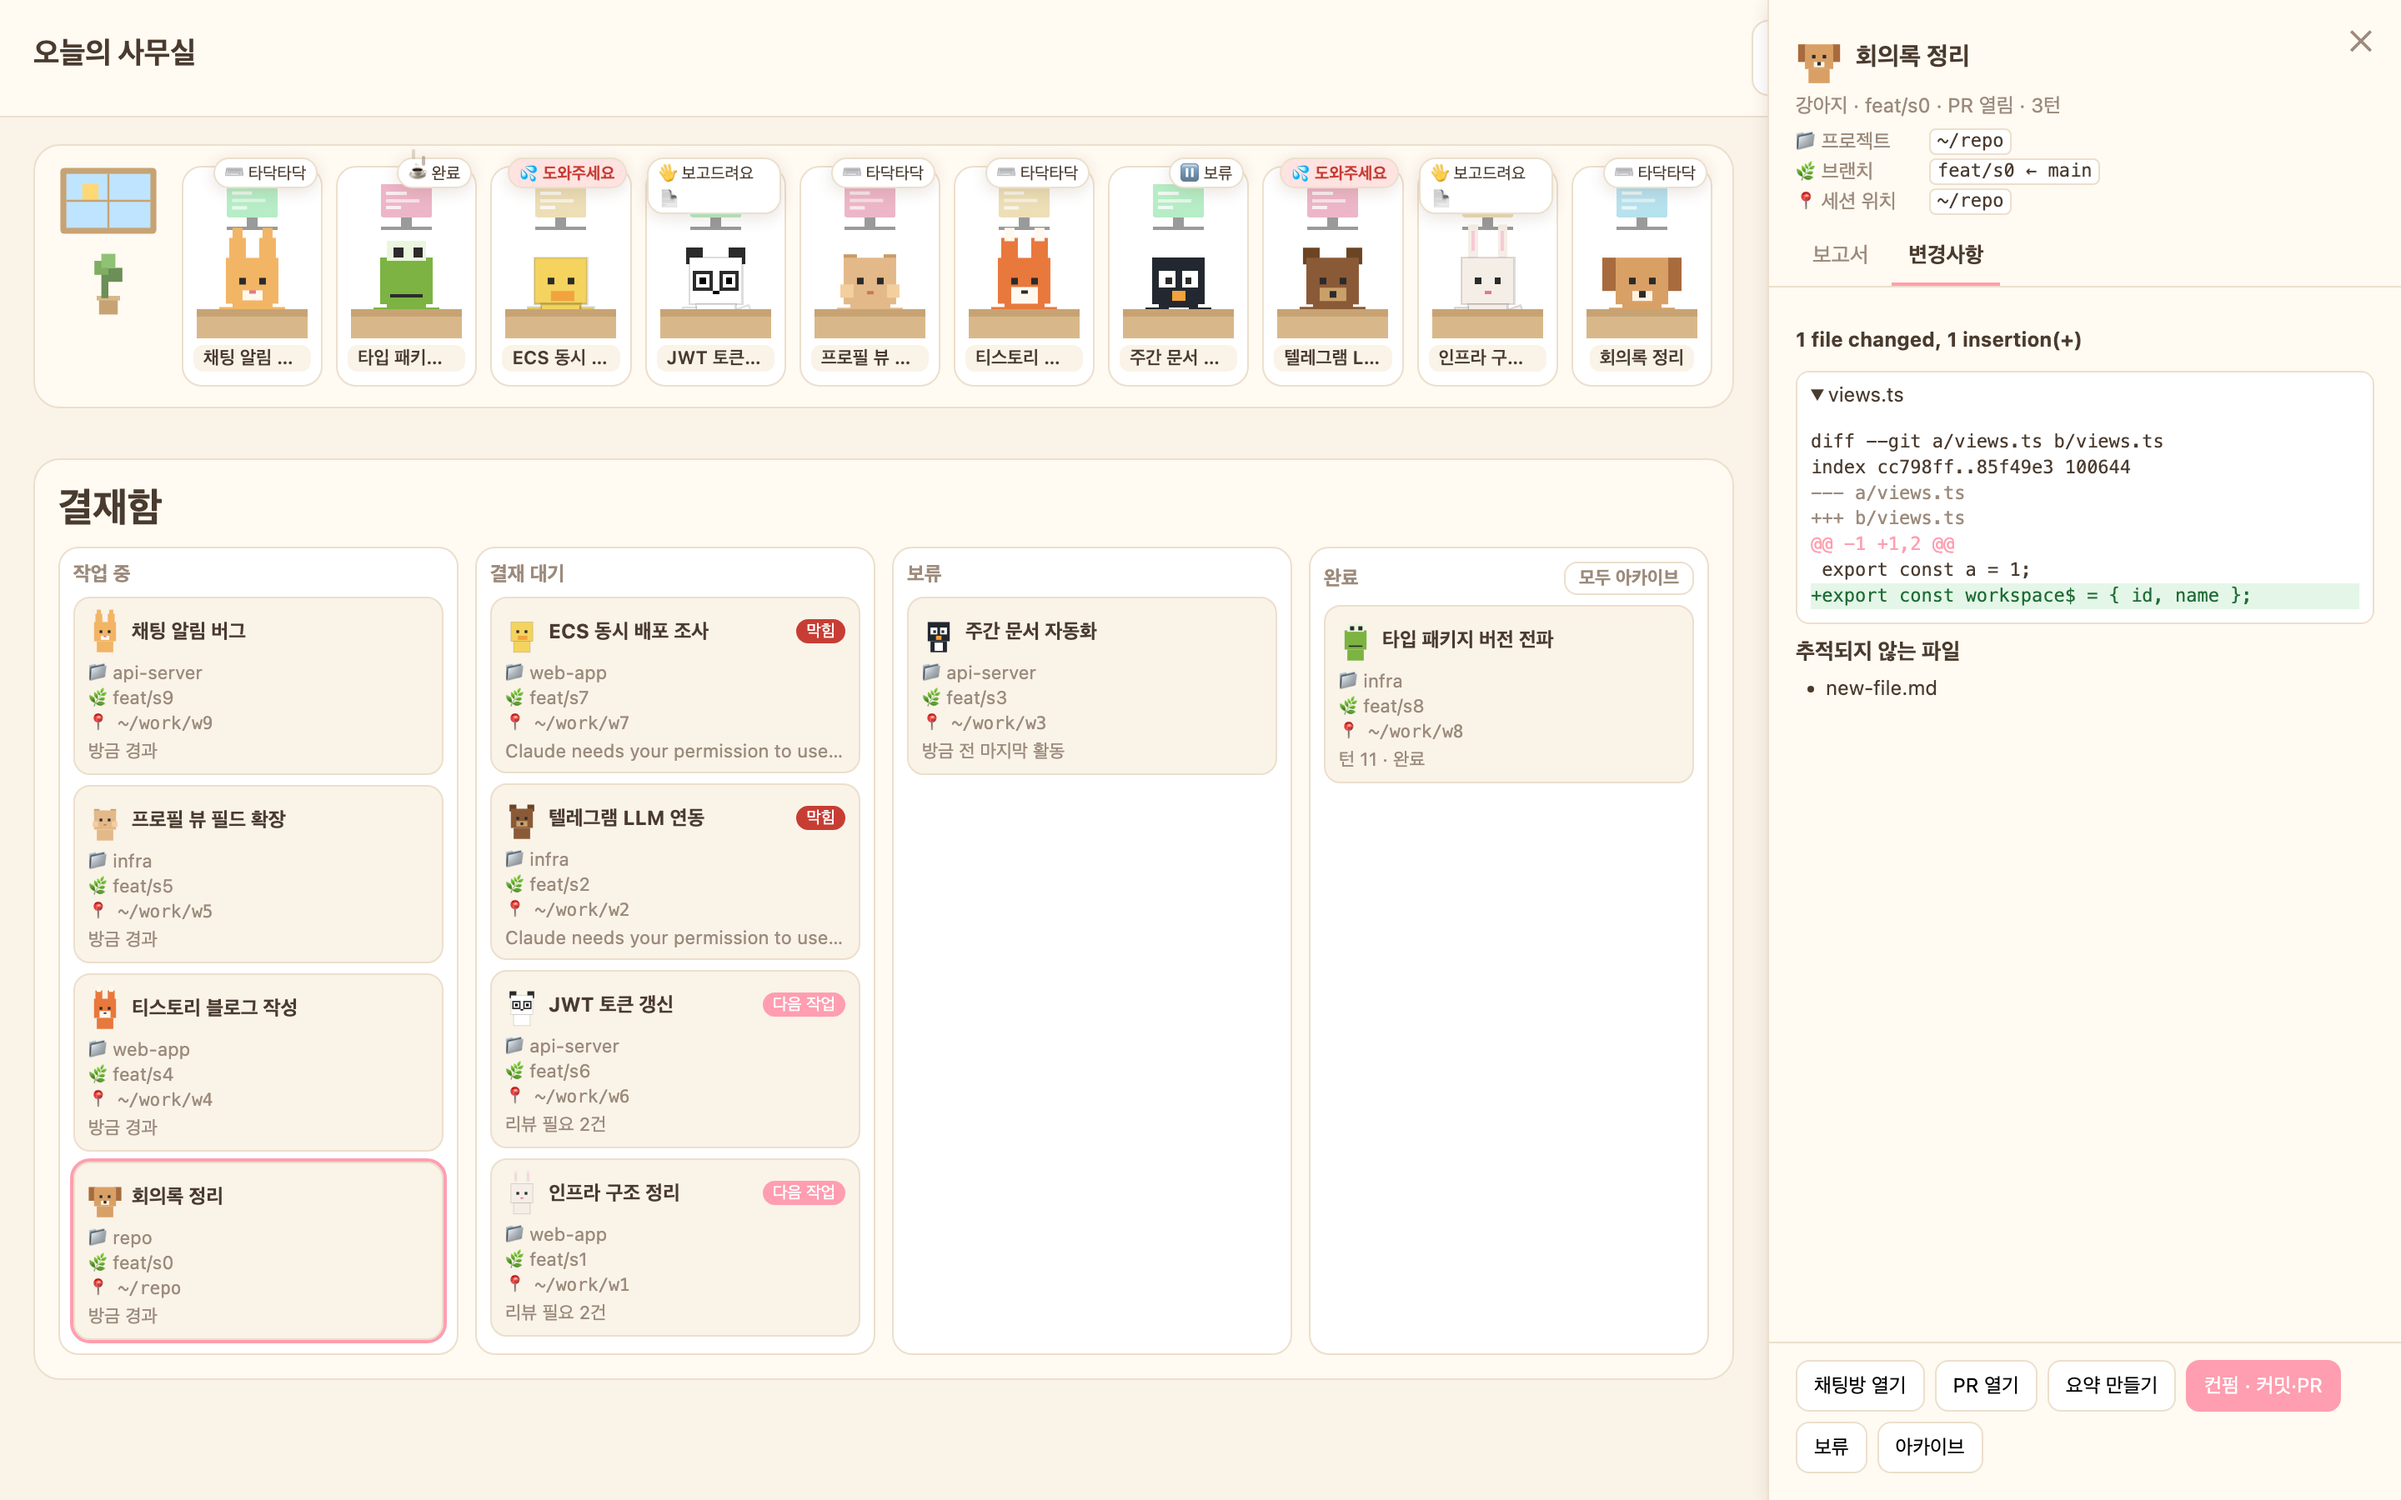
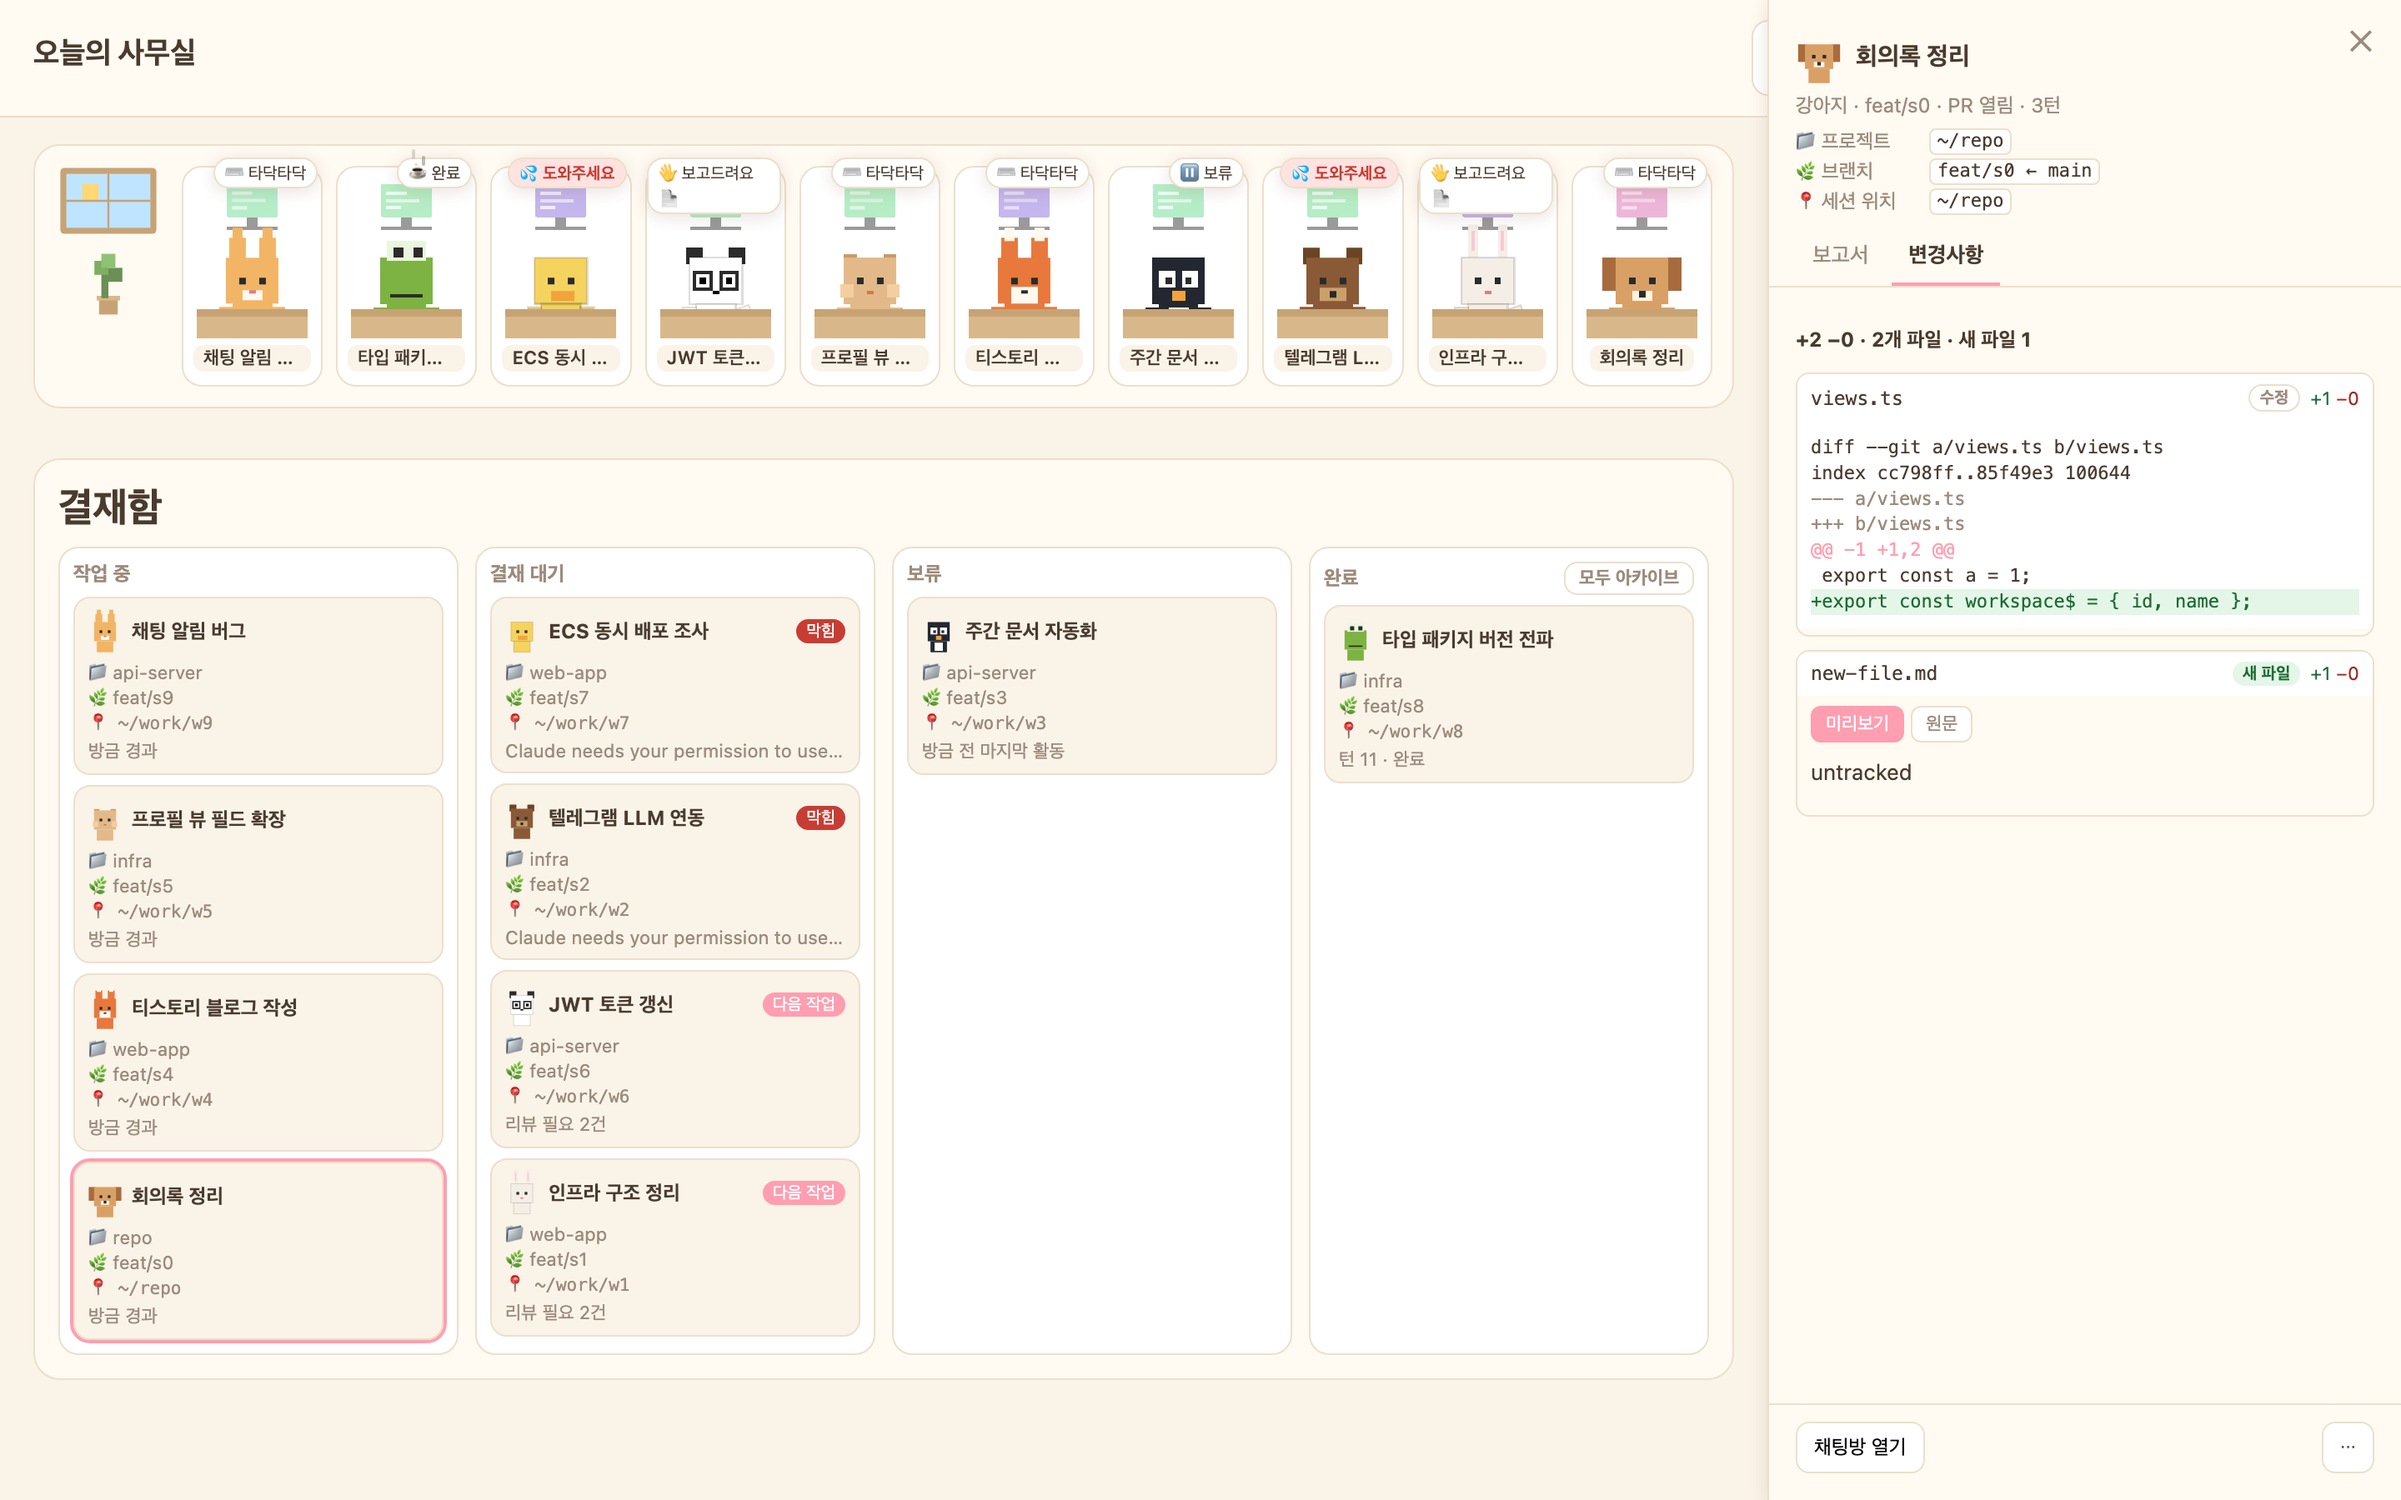
docs: code layout, detail panel guide, new screenshots, design status

diff --git a/README.md b/README.md
@@ -33,7 +33,7 @@ flowchart TB
         GIT["워크트리 git<br/>diff · 브랜치 · 프로젝트"]
     end
 
-    SRV["server.mjs + lib.mjs<br/>127.0.0.1:7777"]
+    SRV["server.mjs → src/<br/>127.0.0.1:7777"]
     DEC[("~/.claude/office/decisions.json<br/>컨펌 · 보류 · 아카이브")]
     UI["브라우저<br/>픽셀 오피스 · 결재함<br/>상세 패널 · 보관함"]
 
@@ -52,6 +52,31 @@ flowchart TB
 - 세션 상태는 hooks가 남긴 이벤트로, 제목·브랜치·딥링크는 앱 파일에서, 변경사항은 각 워크트리의 git에서 읽는다.
 - 서버가 쓰는 곳은 `~/.claude/office/` 하나다. 앱 데이터와 세션 파일은 읽기만 한다.
 - 세션에 무언가를 보낼 때(컨펌, OK)는 마지막 Enter를 항상 사용자가 누른다.
+
+### 코드 구조
+
+```
+server.mjs              진입점 (src/http/server.mjs 실행)
+install.mjs             hooks 설치·제거
+hooks/report.mjs        hook (실행 속도 때문에 의존성 없이 단독)
+src/
+  config.mjs            환경변수·경로·한도 (환경변수는 여기서만 읽음)
+  http/                 controller: 입력 정리 → use-case 호출 → 응답, Host/Origin 검사
+  usecases/             흐름: 세션 목록, 변경사항, 컨펌·보류·아카이브, 다음 작업, 요약
+  domain/               순수 함수: 상태 판정, 보고서 파싱, 프롬프트, diff 파싱
+  sources/              데이터 읽기·쓰기: 앱 세션 파일, hook 상태, 대화 기록, 결정, git
+  platform/             OS 부수효과: open, pbcopy, claude -p
+public/
+  index.html            마크업 뼈대
+  css/                  base · office · board · panel · changes · markdown
+  js/                   main → api · store → views/ · panel/ (lib/은 순수 함수)
+test/unit/              순수 함수 테스트
+test/integration/       서버·fixture·임시 git 레포 테스트
+```
+
+- 의존 방향: `http → usecases → domain · sources · platform`. `domain/`과 `public/js/lib/`, `panel/actions.js`는 아무것도 import하지 않는 순수 모듈이다.
+- 파일 쓰기와 OS 명령은 `sources/`와 `platform/`에만 있다.
+- 설계 문서: [`docs/specs/2026-09-28-layering-and-panel-design.md`](docs/specs/2026-09-28-layering-and-panel-design.md)
 
 ## 먼저 데모로 보기 (실제 설정 안 건드림)
 
@@ -77,6 +102,13 @@ node scripts/demo.mjs public 7770
 특정 세션 패널을 바로 여는 주소: `http://127.0.0.1:7777/?open=<세션 id>` (변경사항 탭은 `&tab=diff`).
 
 hooks는 설치 **이후** 시작된 턴부터 잡힌다. 설치 전 세션은 24시간 이내 활동분만 회색(상태 미상)으로 보인다.
+
+## 상세 패널
+
+- **보고서 탭**: 결재 보고를 마크다운으로 보여준다. "다음 작업"은 항목마다 **▶ 진행** 버튼이 있다.
+- **변경사항 탭**: 무엇과 비교했는지(기준 브랜치)와 `+추가 −삭제 · 파일 수 · 새 파일 수`를 먼저 보여준다. 새 파일은 커밋 여부와 상관없이 **내용 전체**가 보이고, 새 `.md` 파일은 **미리보기 / 원문**으로 전환된다. 워크트리 없이 연 세션도 그 폴더의 git 레포로 비교한다. 변경이 없으면 이유를 적는다. 세션이 새로 움직이면 자동으로 다시 불러온다.
+- **하단 버튼**: 상태마다 주 버튼 하나만 강조한다. 결재 대기는 "컨펌 · 커밋·PR", 다음 작업이 있으면 "OK · 1번 진행 ▾"(▾로 2·3번 선택)이다. 보조 버튼은 "채팅방 열기"이고 나머지는 **⋯ 메뉴**(요약 만들기, 보류, 아카이브)에 있다.
+- **크기 조절**: 패널 왼쪽 가장자리를 드래그한다. 손잡이에 포커스한 뒤 ←/→로 조절하고, 더블클릭하면 기본 폭으로 돌아온다. 폭은 브라우저에 저장된다.
 
 ## 컨펌과 다음 작업
 

diff --git a/README.en.md b/README.en.md
@@ -34,7 +34,7 @@ flowchart TB
         GIT["git per worktree<br/>diff · branch · project"]
     end
 
-    SRV["server.mjs + lib.mjs<br/>127.0.0.1:7777"]
+    SRV["server.mjs → src/<br/>127.0.0.1:7777"]
     DEC[("~/.claude/office/decisions.json<br/>confirm · hold · archive")]
     UI["Browser<br/>pixel office · approval board<br/>detail panel · archive list"]
 
@@ -53,6 +53,31 @@ flowchart TB
 - Session state comes from hook events; titles, branches, and deep links from the app's files; changes from each worktree's git.
 - The server writes only to `~/.claude/office/`. It only reads app data and session files.
 - Whenever something goes to a session (confirm, OK), you press the final Enter yourself.
+
+### Code layout
+
+```
+server.mjs              entry (runs src/http/server.mjs)
+install.mjs             install / uninstall hooks
+hooks/report.mjs        the hook (standalone, no imports, for startup speed)
+src/
+  config.mjs            env vars, paths, limits (the only place env vars are read)
+  http/                 controller: normalize input → call a use case → respond; Host/Origin checks
+  usecases/             flows: session list, changes, confirm/hold/archive, next task, summary
+  domain/               pure functions: status, report parsing, prompts, diff parsing
+  sources/              data in/out: app session files, hook state, transcripts, decisions, git
+  platform/             OS side effects: open, pbcopy, claude -p
+public/
+  index.html            markup skeleton
+  css/                  base · office · board · panel · changes · markdown
+  js/                   main → api · store → views/ · panel/ (lib/ is pure)
+test/unit/              pure-function tests
+test/integration/       server, fixtures, temp git repos
+```
+
+- Dependencies point one way: `http → usecases → domain · sources · platform`. `domain/`, `public/js/lib/` and `panel/actions.js` import nothing.
+- File writes and OS commands live only in `sources/` and `platform/`.
+- Design (Korean): [`docs/specs/2026-09-28-layering-and-panel-design.md`](docs/specs/2026-09-28-layering-and-panel-design.md)
 
 ## Try the demo first (touches no real settings)
 
@@ -78,6 +103,13 @@ Ten fake sessions change state every 8 seconds. Open `http://127.0.0.1:7770`.
 To open a session's panel directly: `http://127.0.0.1:7777/?open=<session id>` (add `&tab=diff` for the changes tab).
 
 Hooks only see turns that start **after** installation. Older sessions active in the last 24 hours show up grey (state unknown).
+
+## Detail panel
+
+- **Report tab**: the approval report rendered as markdown. Each "다음 작업" (next task) item has its own **▶ 진행** (run) button.
+- **Changes tab**: first shows what it compared against (base branch) and `+added −deleted · files · new files`. New files show their **full content** whether committed or not, and new `.md` files switch between **미리보기 / 원문** (preview / raw). Sessions opened without a worktree are compared in their folder's git repo. When there are no changes, it says why. It reloads when the session moves on.
+- **Footer**: one primary action per state — "컨펌 · 커밋·PR" (confirm) while awaiting approval, or "OK · 1번 진행 ▾" (run next task #1, ▾ for #2/#3) when next tasks exist. "채팅방 열기" (open chat) is secondary; the rest sits in the **⋯ menu** (summary, hold, archive).
+- **Resize**: drag the panel's left edge, or focus the handle and use ←/→; double-click resets the width. The width is saved in the browser.
 
 ## Board columns
 

diff --git a/docs/research/2026-09-28-compat-and-verification.md b/docs/research/2026-09-28-compat-and-verification.md
@@ -1,5 +1,7 @@
 # 호환성 · 검증 상태 조사 (2026-09-28)
 
+> 이 문서의 `파일:줄` 위치는 레이어 분리(`f5ade35`) **이전** 코드 기준이다. `lib.mjs`는 이후 `src/` 아래 모듈로 나뉘었다(예: 앱 데이터 경로 → `src/config.mjs`, `open`·`pbcopy` → `src/platform/macos.mjs`).
+
 ## 1. 목적
 
 1. Claude Office가 macOS·Windows에서 동작하는지 확인
